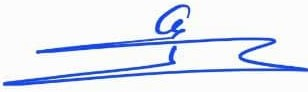
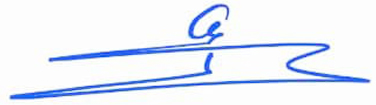
Buntheng
Update side bar
Update labor test
update logo
update style color

Changed region(s): [[0.0, 0.0217, 1.0, 0.9565]]

diff --git a/public/css/invoice-print-style.css b/public/css/invoice-print-style.css
@@ -108,7 +108,7 @@
 	height: 70px;
 }
 .sign_box img{
-	width: 123px;
+	width: 180px;
 	margin-top: 15px;
 }
 .color_red{
@@ -209,6 +209,12 @@ table tfoot { display: table-row-group!important; }
 		-o-print-color-adjust: exact !important;
 	}
 	.color_red{
+		color: red !important;
+		-webkit-print-color-adjust: exact !important;
+		-moz-print-color-adjust: exact !important;
+		-o-print-color-adjust: exact !important;
+	}
+	.color_red div span{
 		color: red !important;
 		-webkit-print-color-adjust: exact !important;
 		-moz-print-color-adjust: exact !important;

diff --git a/resources/views/layouts/sidebar.blade.php b/resources/views/layouts/sidebar.blade.php
@@ -57,8 +57,16 @@
 
 					@if (count(Auth::user()->LaborTypes()->get()))
 						@canany(['Labor Index', 'Labor Create', 'Labor Edit', 'Labor Delete'])
+						@foreach (Auth::user()->LaborTypes()->get() as $jjey => $llabor_type )
+							@endforeach
+								<li class="nav-item">
+									<a href="{{ route('labor.create', 'blood-test') }}" class="nav-link {{ (($llabor_type->slug == @$type )? 'active':'') }}">
+										<i class="nav-icon las la-flask"></i>
+										<p>ការពិនិត្យឈាម</p>
+									</a>
+								</li>
 					
-						<li class="nav-item has-treeview {{ ((in_array(Auth::user()->sidebarActive(), [ 'labor' ]))? 'menu-open':'') }}">
+						<!-- <li class="nav-item has-treeview {{ ((in_array(Auth::user()->sidebarActive(), [ 'labor' ]))? 'menu-open':'') }}">
 							<a href="#" class="nav-link {{ ((strpos('labor', Auth::user()->sidebarActive()) !== false)? 'active':'') }}">
 								<i class="nav-icon las la-flask"></i>
 								<p>
@@ -78,7 +86,7 @@
 							@endforeach
 		
 							</ul>
-						</li>
+						</li> -->
 						
 						@endcan
 					@endif

diff --git a/app/Repositories/Component/GlobalComponent.php b/app/Repositories/Component/GlobalComponent.php
@@ -180,9 +180,9 @@ class GlobalComponent extends Controller
 	public function FooterComeBackText($text = '', $color = 'color_red')
 	{
 		$html_footer_comeback ="
-													<div class='color_light_blue' style=' text-align: center; position: absolute; bottom: 0.4cm; left: 0; width: 100%; padding: 0 0.8cm;'>
+													<div class='color_red' style=' text-align: center; position: absolute; bottom: 0.4cm; left: 0; width: 100%; padding: 0 0.8cm;'>
 														<div style=' border-top: 2px solid blue; padding-top: 10px;'>
-															<span class='KHOSMoulLight'>កំណត់ចំណាំ:</span> " . ($text ?: 'សូមយកវេជ្ជបញ្ជាមកវិញពេលមកពិនិត្យលើក្រោយ') . "
+															<span class='KHOSMoulLight' style='color: red;'>កំណត់ចំណាំ:</span> " . ($text ?: '<span>សូមយកវេជ្ជបញ្ជាមកវិញពេលមកពិនិត្យលើក្រោយ</span>') . "
 														</div>
 													</div>
 												";
